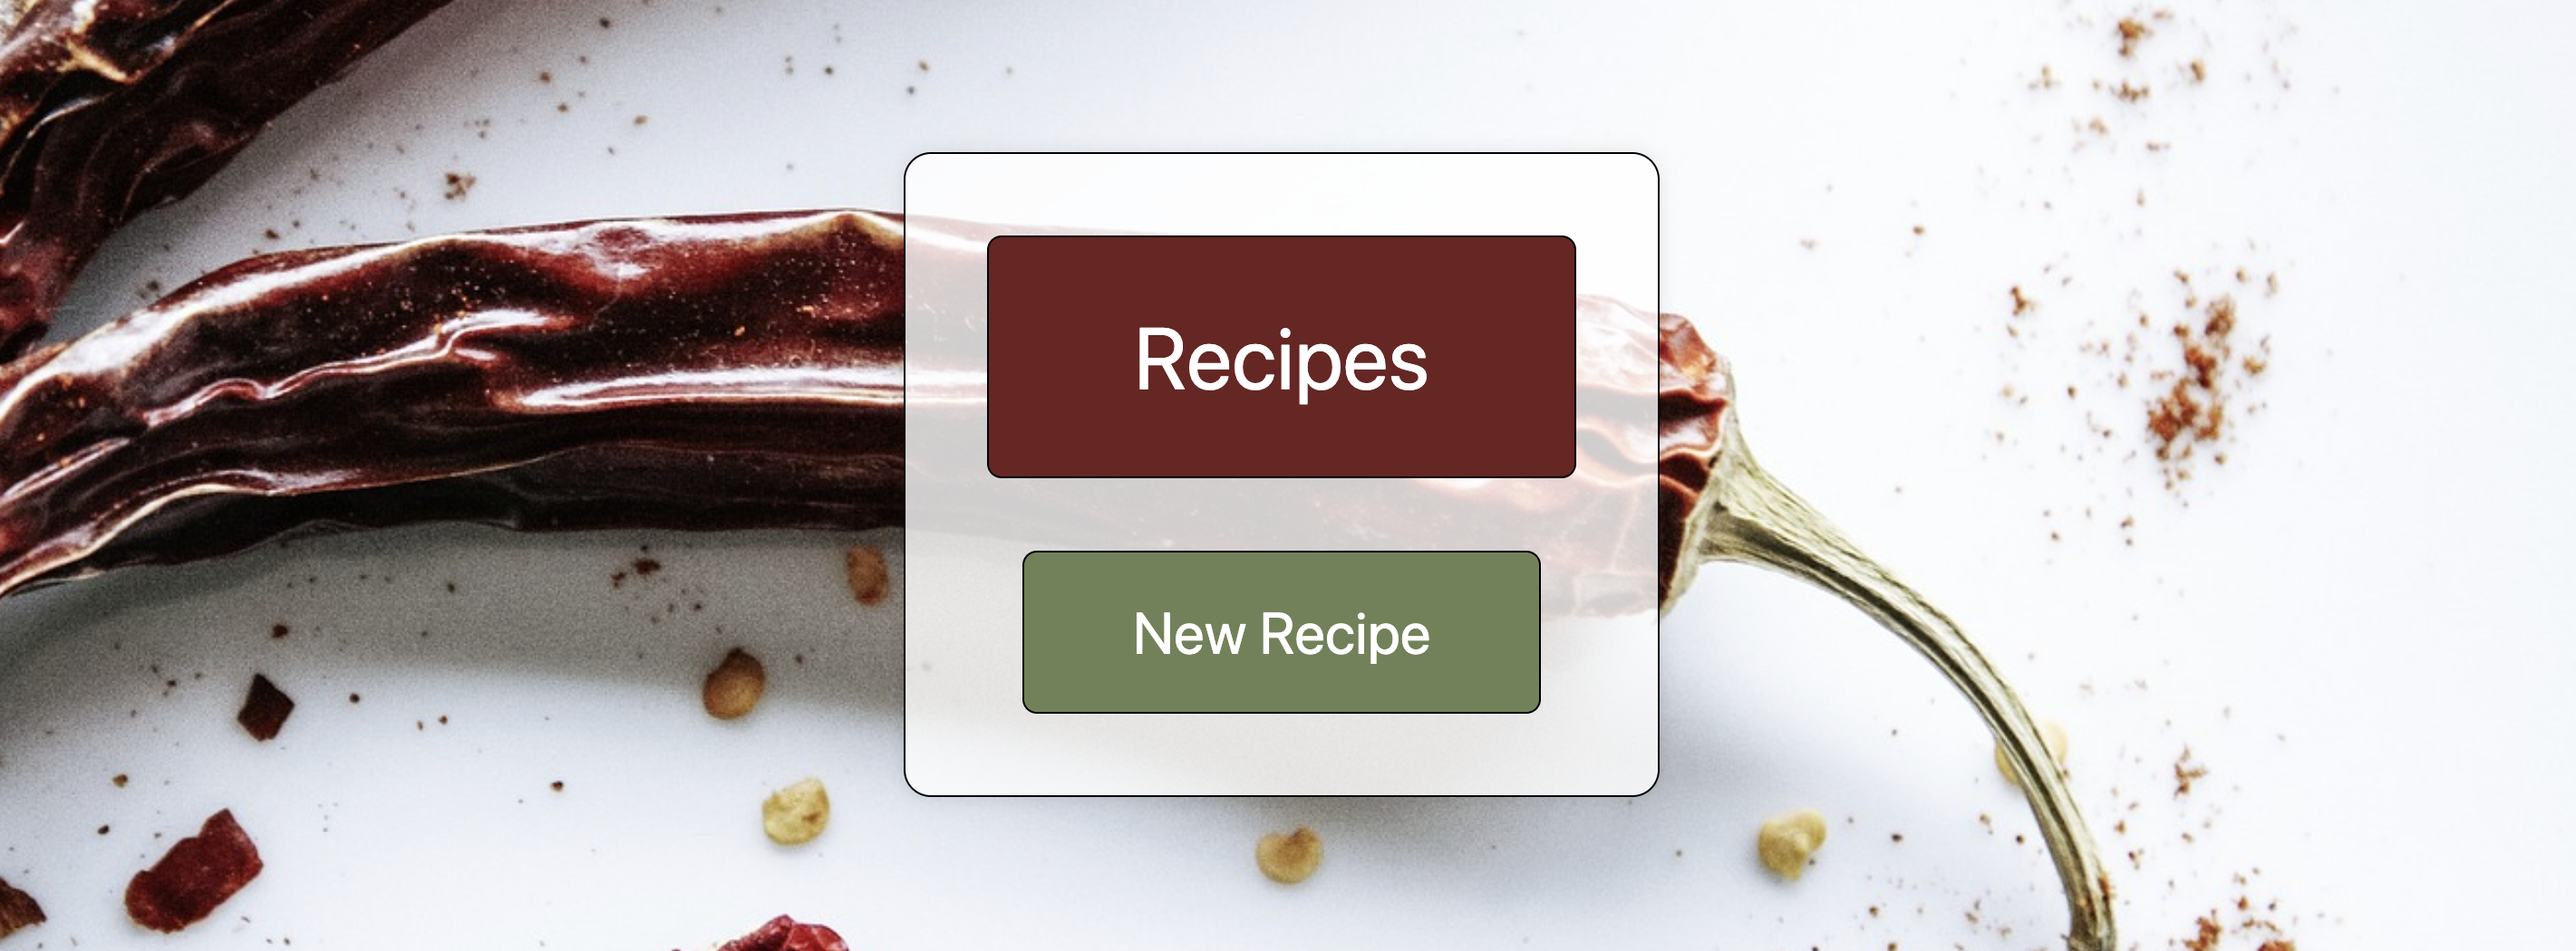
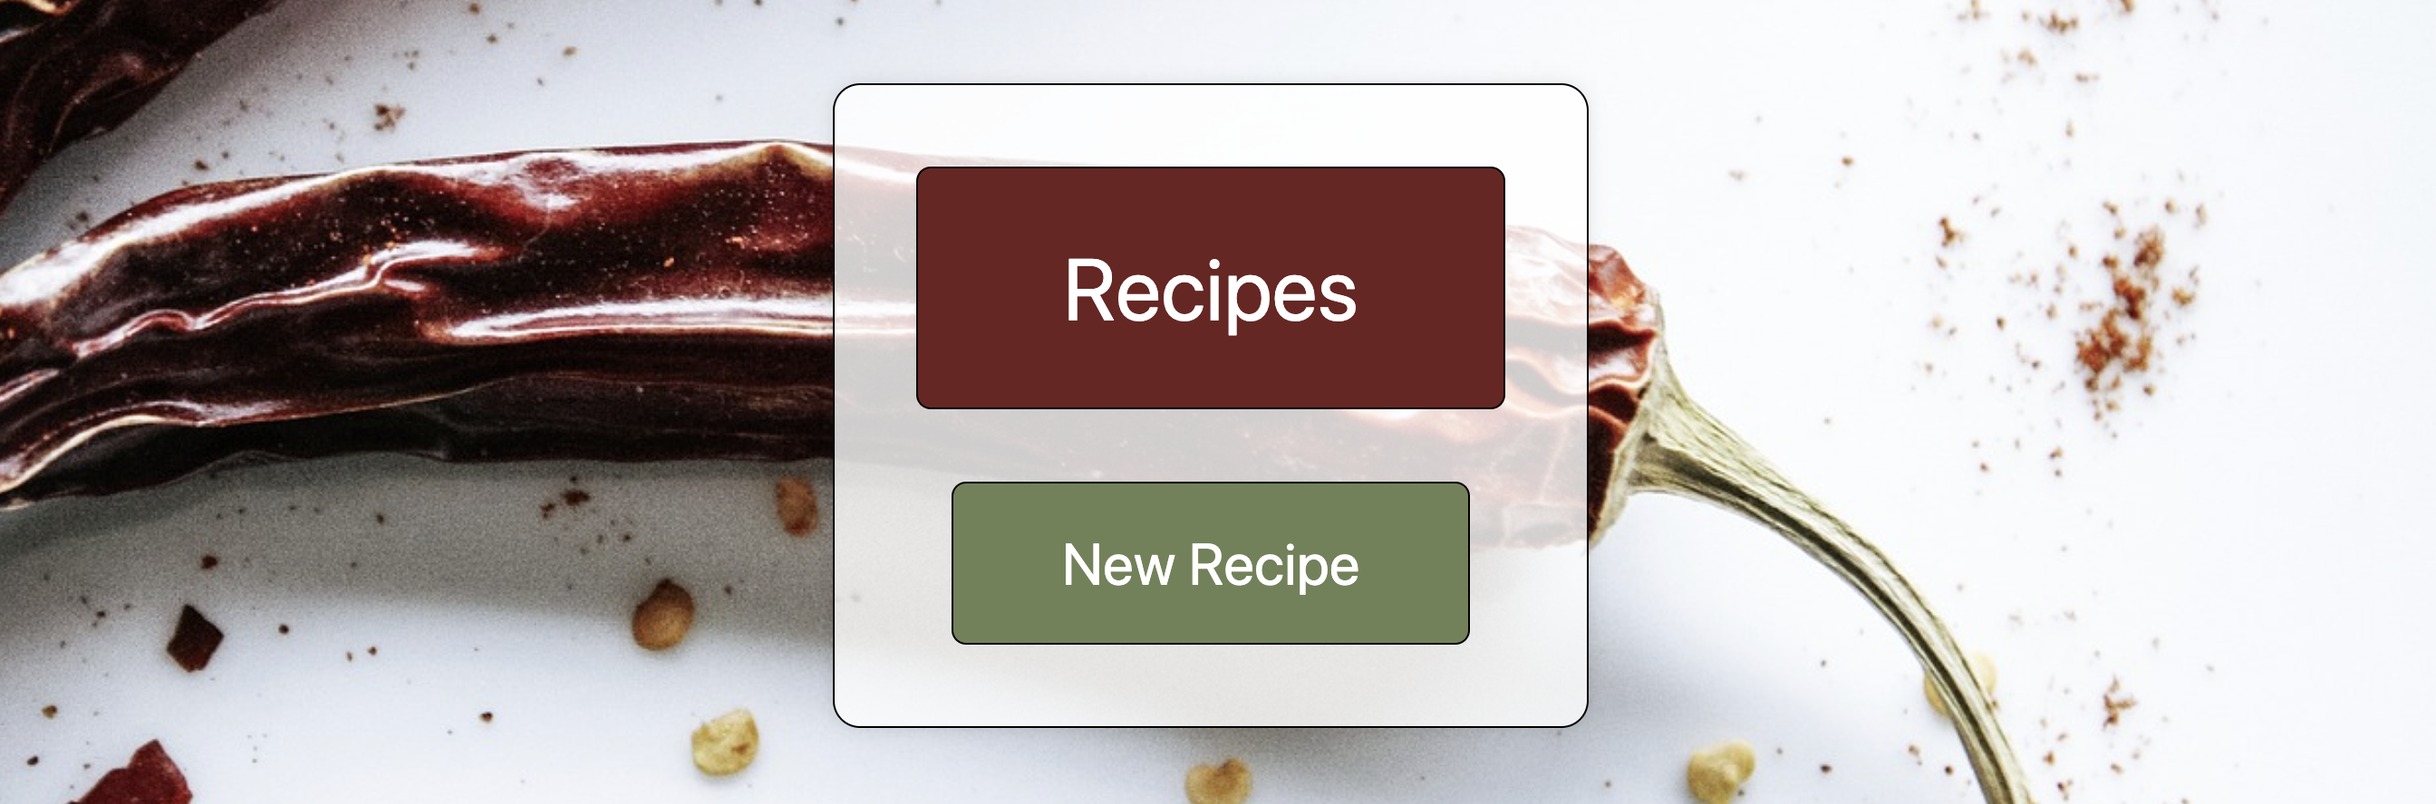
clean up cloud-content & recipe-bank-img

diff --git a/src/components/CloudDevCardData.js b/src/components/CloudDevCardData.js
@@ -3,7 +3,7 @@ const CloudDevCardData = [
         id: 1,
         imgUrl: "./images/recipe-bank-img.png",
         alt: "Recipe Bank Image",
-        card_title: "Recipe Bank",
+        card_title: "Recipe Bank Web Application",
         card_text: "",
         youtube_link: "",
         api_github_link: "https://github.com/michael-albright/recipe_bank_spring_api",

diff --git a/src/App.js b/src/App.js
@@ -61,7 +61,7 @@ function App() {
         <PortfolioHeader />
       </div>
       <div className="container">
-        <div className="card-columns">
+        <div className="d-flex justify-content-center">
           {cloudDevCard}
         </div>
       </div>

diff --git a/src/components/CloudDevCard.js b/src/components/CloudDevCard.js
@@ -2,7 +2,7 @@ import React from 'react';
 
 function CloudDevCard(props) {
     return (
-    <div className="card mx-auto mt-4">
+    <div className="card cloud-content">
         <img 
         src={props.imgUrl}
         className="card-img-top" 

diff --git a/src/components/ProjectCard.js b/src/components/ProjectCard.js
@@ -2,7 +2,7 @@ import React from 'react';
 
 function ProjectCard(props) {
     return (
-    <div className="card mx-auto mt-4">
+    <div className="card mx-auto mt-2">
         <img 
         src={props.imgUrl}
         className="card-img-top" 

diff --git a/src/App.css b/src/App.css
@@ -147,6 +147,10 @@
   /* font-size: 1.3rem; */
 }
 
+.cloud-content {
+  min-width: 40rem !important;
+}
+
 .card-text {
   font-size: .75rem;
 }
